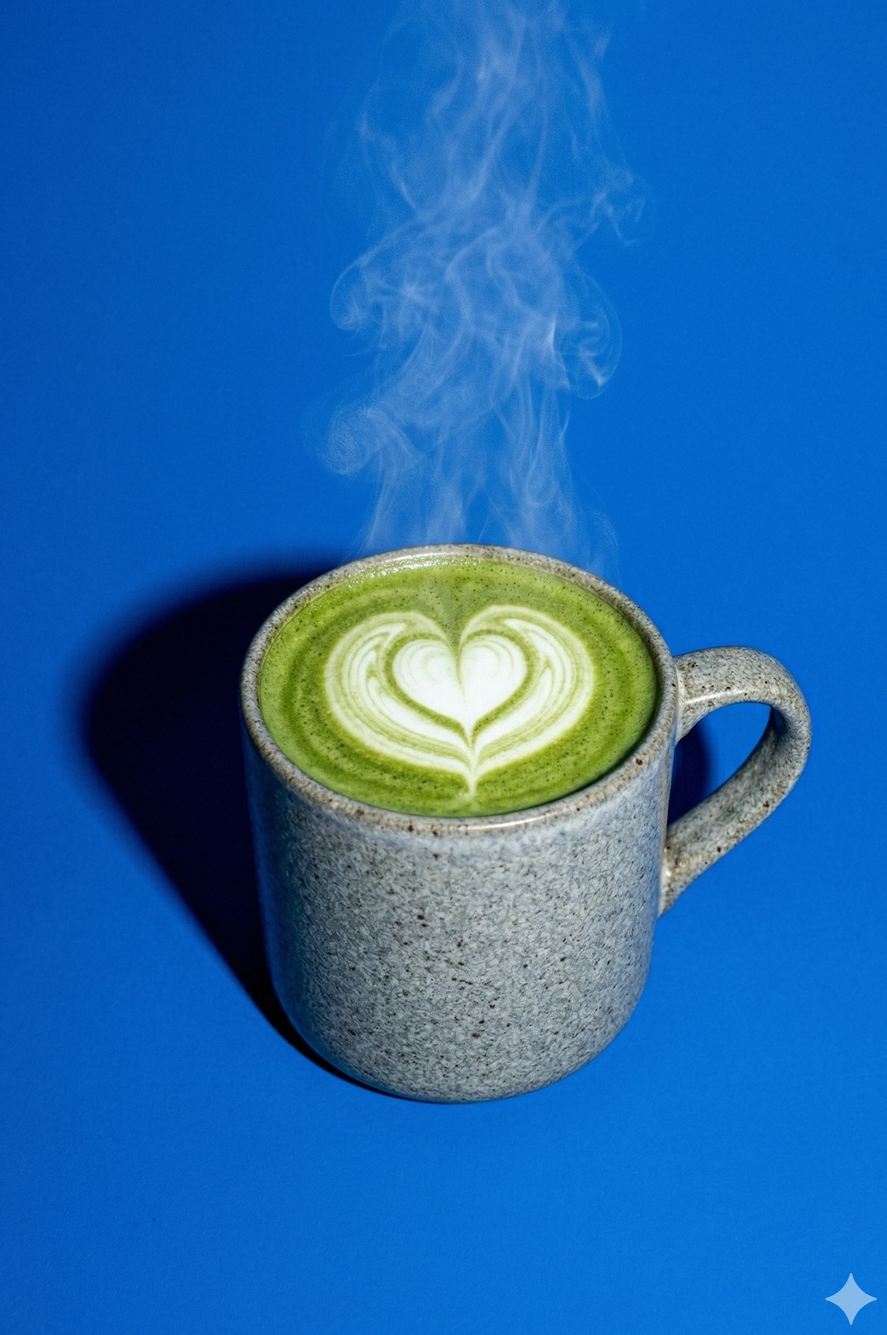
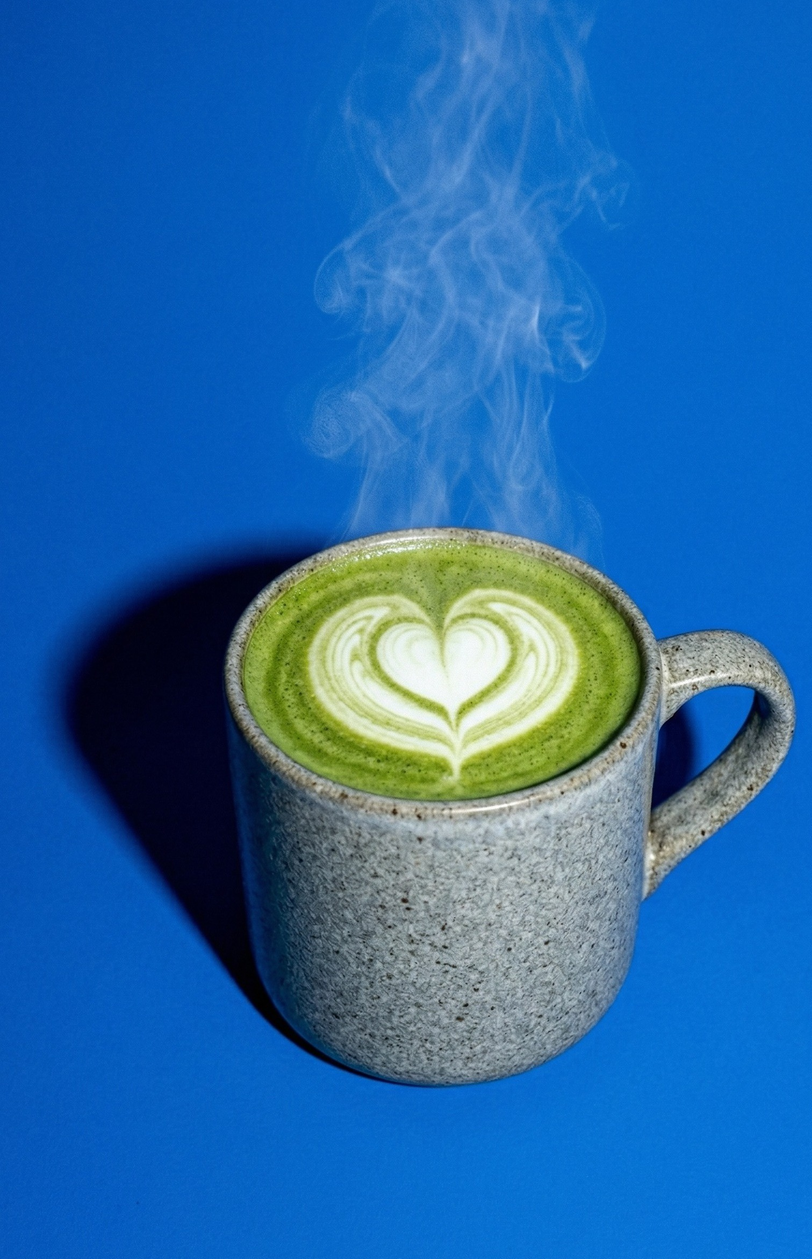
Remove Gemini watermarks, fix recipe detail hero to full-bleed
- Cropped bottom-right Gemini sparkle watermark from all 9 images
- Recipe detail hero: switched from contain (navy side bars) to
  cover with imageBg fallback for seamless full-bleed
- Hero height increased to 85vh desktop / 70vh mobile
- Removed unused color overlay from hero

Changed region(s): [[0.0311, 0.0, 0.9954, 0.8724], [0.9332, 0.9347, 0.9954, 0.997], [0.7154, 0.0, 0.7465, 0.0312]]

diff --git a/app/recipes/[slug]/page.tsx b/app/recipes/[slug]/page.tsx
@@ -146,27 +146,21 @@ export default async function RecipeDetailPage({
         /* ── HERO ── */
         .rd-hero{
           position:relative;overflow:hidden;
-          min-height:560px;
+          min-height:85vh;
           display:flex;align-items:flex-end;
           padding:0 0 48px 0
         }
         .rd-hero-bg{
-          position:absolute;inset:0;
-          display:flex;align-items:center;justify-content:center
+          position:absolute;inset:0
         }
         .rd-hero-bg img{
           width:100%;height:100%;
-          object-fit:contain;
-          object-position:center center;
-          filter:brightness(0.85) saturate(1.1)
+          object-fit:cover;
+          object-position:center center
         }
         .rd-hero-overlay{
           position:absolute;inset:0;
-          background:linear-gradient(180deg,rgba(0,0,0,0) 0%,rgba(0,0,0,0.1) 30%,rgba(0,0,0,0.55) 100%)
-        }
-        .rd-hero-color{
-          position:absolute;inset:0;
-          mix-blend-mode:multiply;opacity:0.45
+          background:linear-gradient(180deg,rgba(0,0,0,0) 40%,rgba(0,0,0,0.5) 100%)
         }
         .rd-hero-inner{
           position:relative;z-index:2;
@@ -320,7 +314,7 @@ export default async function RecipeDetailPage({
           .rd-nav-logo span{font-size:18px}
           .rd-nav-logo img{width:30px;height:30px}
           .rd-nav-cta{padding:8px 14px;font-size:10px;letter-spacing:.04em;white-space:nowrap}
-          .rd-hero{min-height:500px;padding-bottom:36px}
+          .rd-hero{min-height:70vh;padding-bottom:36px}
           .rd-hero-inner{padding:0 5%}
           .rd-body{padding:40px 5% 56px}
           .rd-back-section{padding:0 5% 48px}
@@ -391,7 +385,7 @@ export default async function RecipeDetailPage({
       <section className="rd-hero">
         <div
           className="rd-hero-bg"
-          style={{ background: '#1B1F3B' }}
+          style={{ background: recipe.imageBg }}
         >
           <img src={recipe.image} alt={recipe.name} />
         </div>
